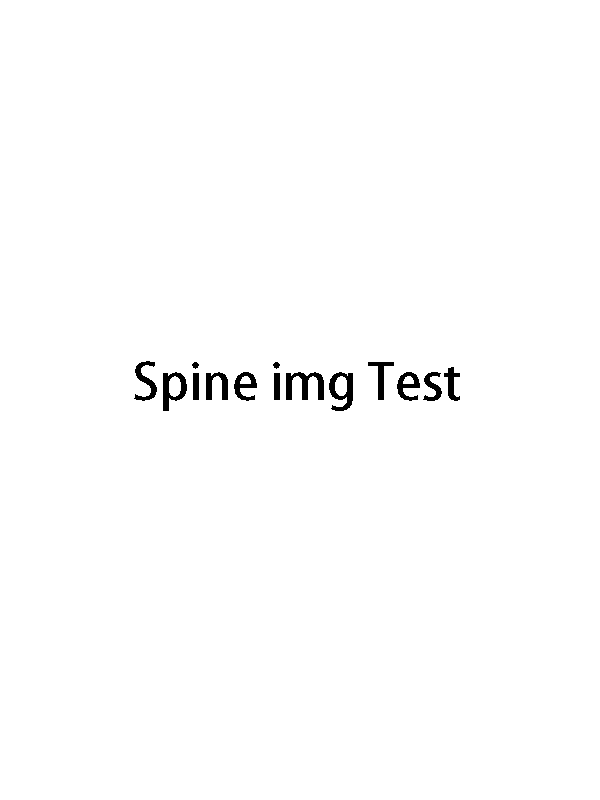
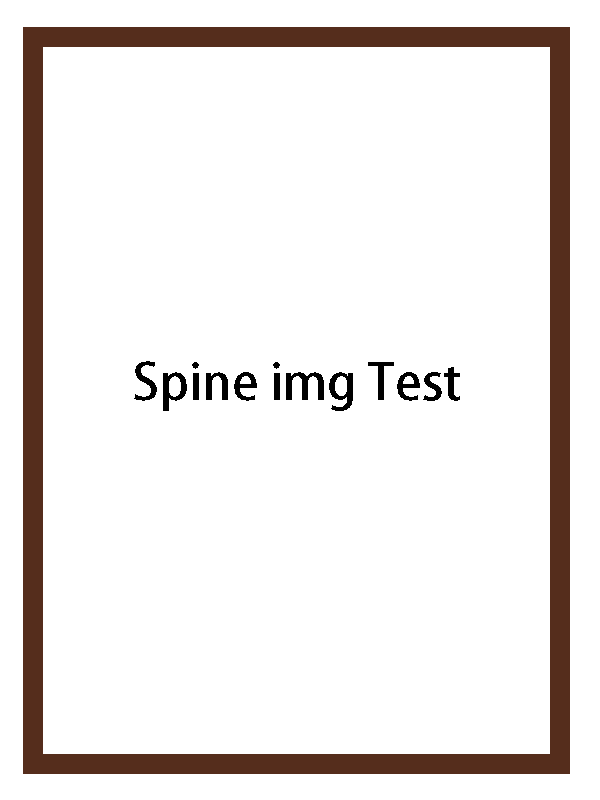
Page Off set

Changed region(s): [[0.03, 0.0312, 0.96, 0.9688]]

diff --git a/index.html b/index.html
@@ -9,6 +9,7 @@
     <link rel="stylesheet" href="CSS/index_hero.css">
     <link rel="stylesheet" href="CSS/index_profileSection.css">
     <link rel="stylesheet" href="CSS/index_totalWorks.css">
+    <link rel="stylesheet" href="CSS/index_ContactInfo.css">
 </head>
 
 <body>
@@ -19,12 +20,12 @@
     <header class="navbar">
         <div class="logo">
             <img src="Assets/image//index/logotest.png" alt="Logo" class="logo-img">
-            <span>我的作品集</span>
+            <span>作品集</span>
         </div>
         <nav class="nav-links">
-            <a href="#skills">擅長技能</a>
-            <a href="#portfolio">作品瀏覽</a>
-            <a href="#contact">聯絡資訊</a>
+            <a href="#profileSection">擅長技能</a>
+            <a href="#totalWorks">作品瀏覽</a>
+            <a href="#ContactInfo">聯絡資訊</a>
         </nav>
     </header>
 
@@ -35,7 +36,7 @@
             <div class="hero-text">
                 <h1 id="hero-title" class="fade">遊戲標題</h1>
                 <p id="hero-desc" class="fade">內容物。</p>
-                <a href="#portfolio" class="more-link">了解更多 →</a>
+                <a href="#totalWorks" class="more-link">了解更多 →</a>
             </div>
         </section>
     </div>
@@ -70,8 +71,25 @@
   </div>
 </div>
 
-        
+<div id="ContactInfo">
+  <div class="contact-box">
+    <h3>聯絡資訊</h3>
+    <ul>
+      <li><img src="Assets/image/index/infoIcon/Icon_envelope.png" alt="email">：a0987915131@gmail.com</li>
+      <li><img src="Assets/image/index/infoIcon/Icon_github.png" alt="github"> ：<a href="https://github.com/alals93vu6" target="_blank">alals93vu6</a></li>
+      <li><img src="Assets/image/index/infoIcon/Icon_facebook.png" alt="facebook"> ：<a href="https://www.facebook.com/su.ming.kai.2025/" target="_blank">我的FaceBook</a></li>
+      <li><img src="Assets/image/index/infoIcon/Icon_discord.png" alt="discord"> ：alals93uv6</li>
+    </ul>
+  </div>
 
+  <div class="contact-box">
+    <h3>海島戀歌開發資訊</h3>
+    <ul>
+      <li><img src="Assets/image/index/infoIcon/icon_review.png" alt="粉專"> ：<a href="https://www.facebook.com/profile.php?id=61569364930743" target="_blank">粉絲專頁</a></li>
+      <li><img src="Assets/image/index/infoIcon/icon_calendar-lines-pen.png" alt="開發誌"> ：<a href="https://x.com/Lovetide777" target="_blank">開發日誌</a></li>
+    </ul>
+  </div>
+</div>
     <script type="module" src="JavaScript/index/IndexManager.js"></script>
     <script>
 

diff --git a/CSS/index_ContactInfo.css b/CSS/index_ContactInfo.css
@@ -1,0 +1,53 @@
+#ContactInfo {
+  position: relative;
+  width: 100%;
+  min-height: 20vh;
+  padding: 2rem 1rem;
+  background-color: rgb(65, 65, 65);
+
+  display: flex;
+  justify-content: center;
+  align-items: flex-start;
+  gap: 5vw;
+  flex-wrap: wrap;
+  color: white;
+}
+
+.contact-box {
+  flex: 1 1 300px;
+}
+
+.contact-box h3 {
+  font-size: 1.4rem;
+  margin-bottom: 0.8rem;
+  color: white;
+}
+
+.contact-box ul {
+  list-style: none;
+  padding: 0;
+}
+
+.contact-box li {
+  display: flex;
+  align-items: center;
+  margin-bottom: 0.6rem;
+  font-size: 1rem;
+}
+
+.contact-box li img {
+  width: 20px;
+  height: 20px;
+  object-fit: contain;
+  margin-right: 0.5rem;
+  filter: brightness(1.1);
+}
+
+.contact-box a {
+  color: #cdeaff;
+  text-decoration: none;
+}
+
+.contact-box a:hover {
+  text-decoration: underline;
+}

diff --git a/CSS/index_totalWorks.css b/CSS/index_totalWorks.css
@@ -3,7 +3,7 @@
   width: 100%;
   min-height: 110vh;
   padding: 2rem 1rem;
-  background-color: rgb(25, 25, 25);
+  background-color: rgb(17, 17, 17);
 
   display: flex;
   justify-content: center;

diff --git a/CSS/index.css b/CSS/index.css
@@ -1,3 +1,7 @@
+html {
+  scroll-behavior: smooth;
+}
+
 #backToTop {
   position: fixed;
   bottom: 50px;
